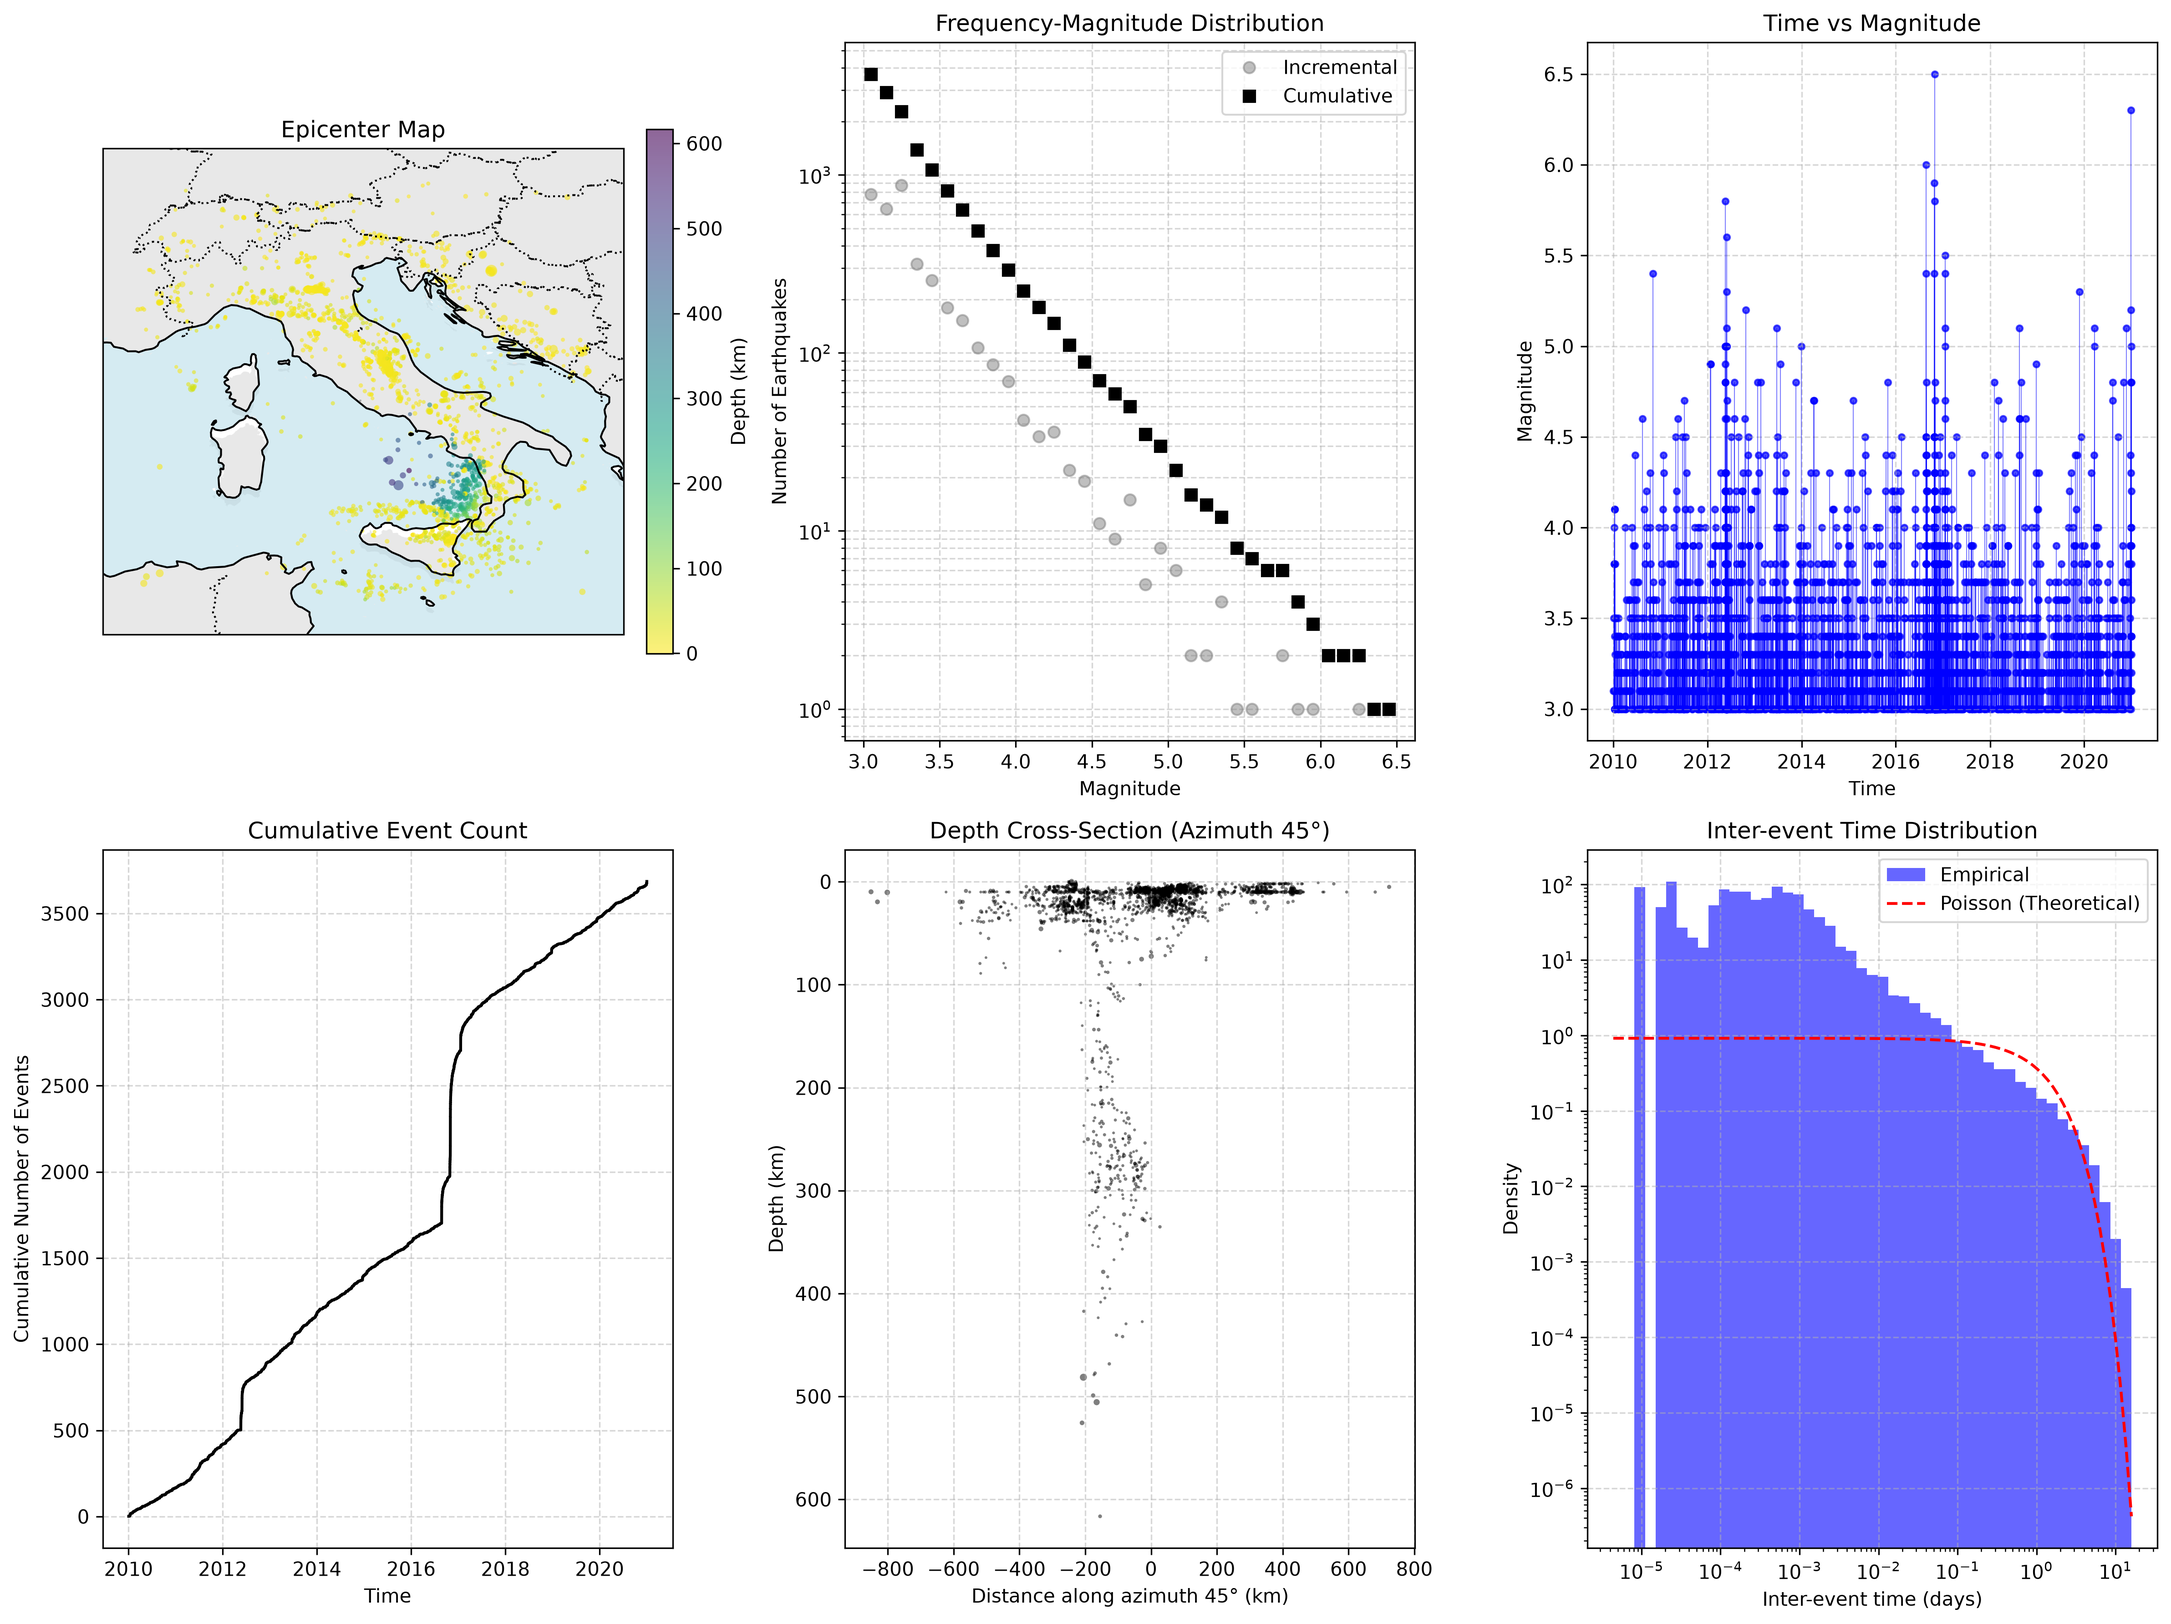
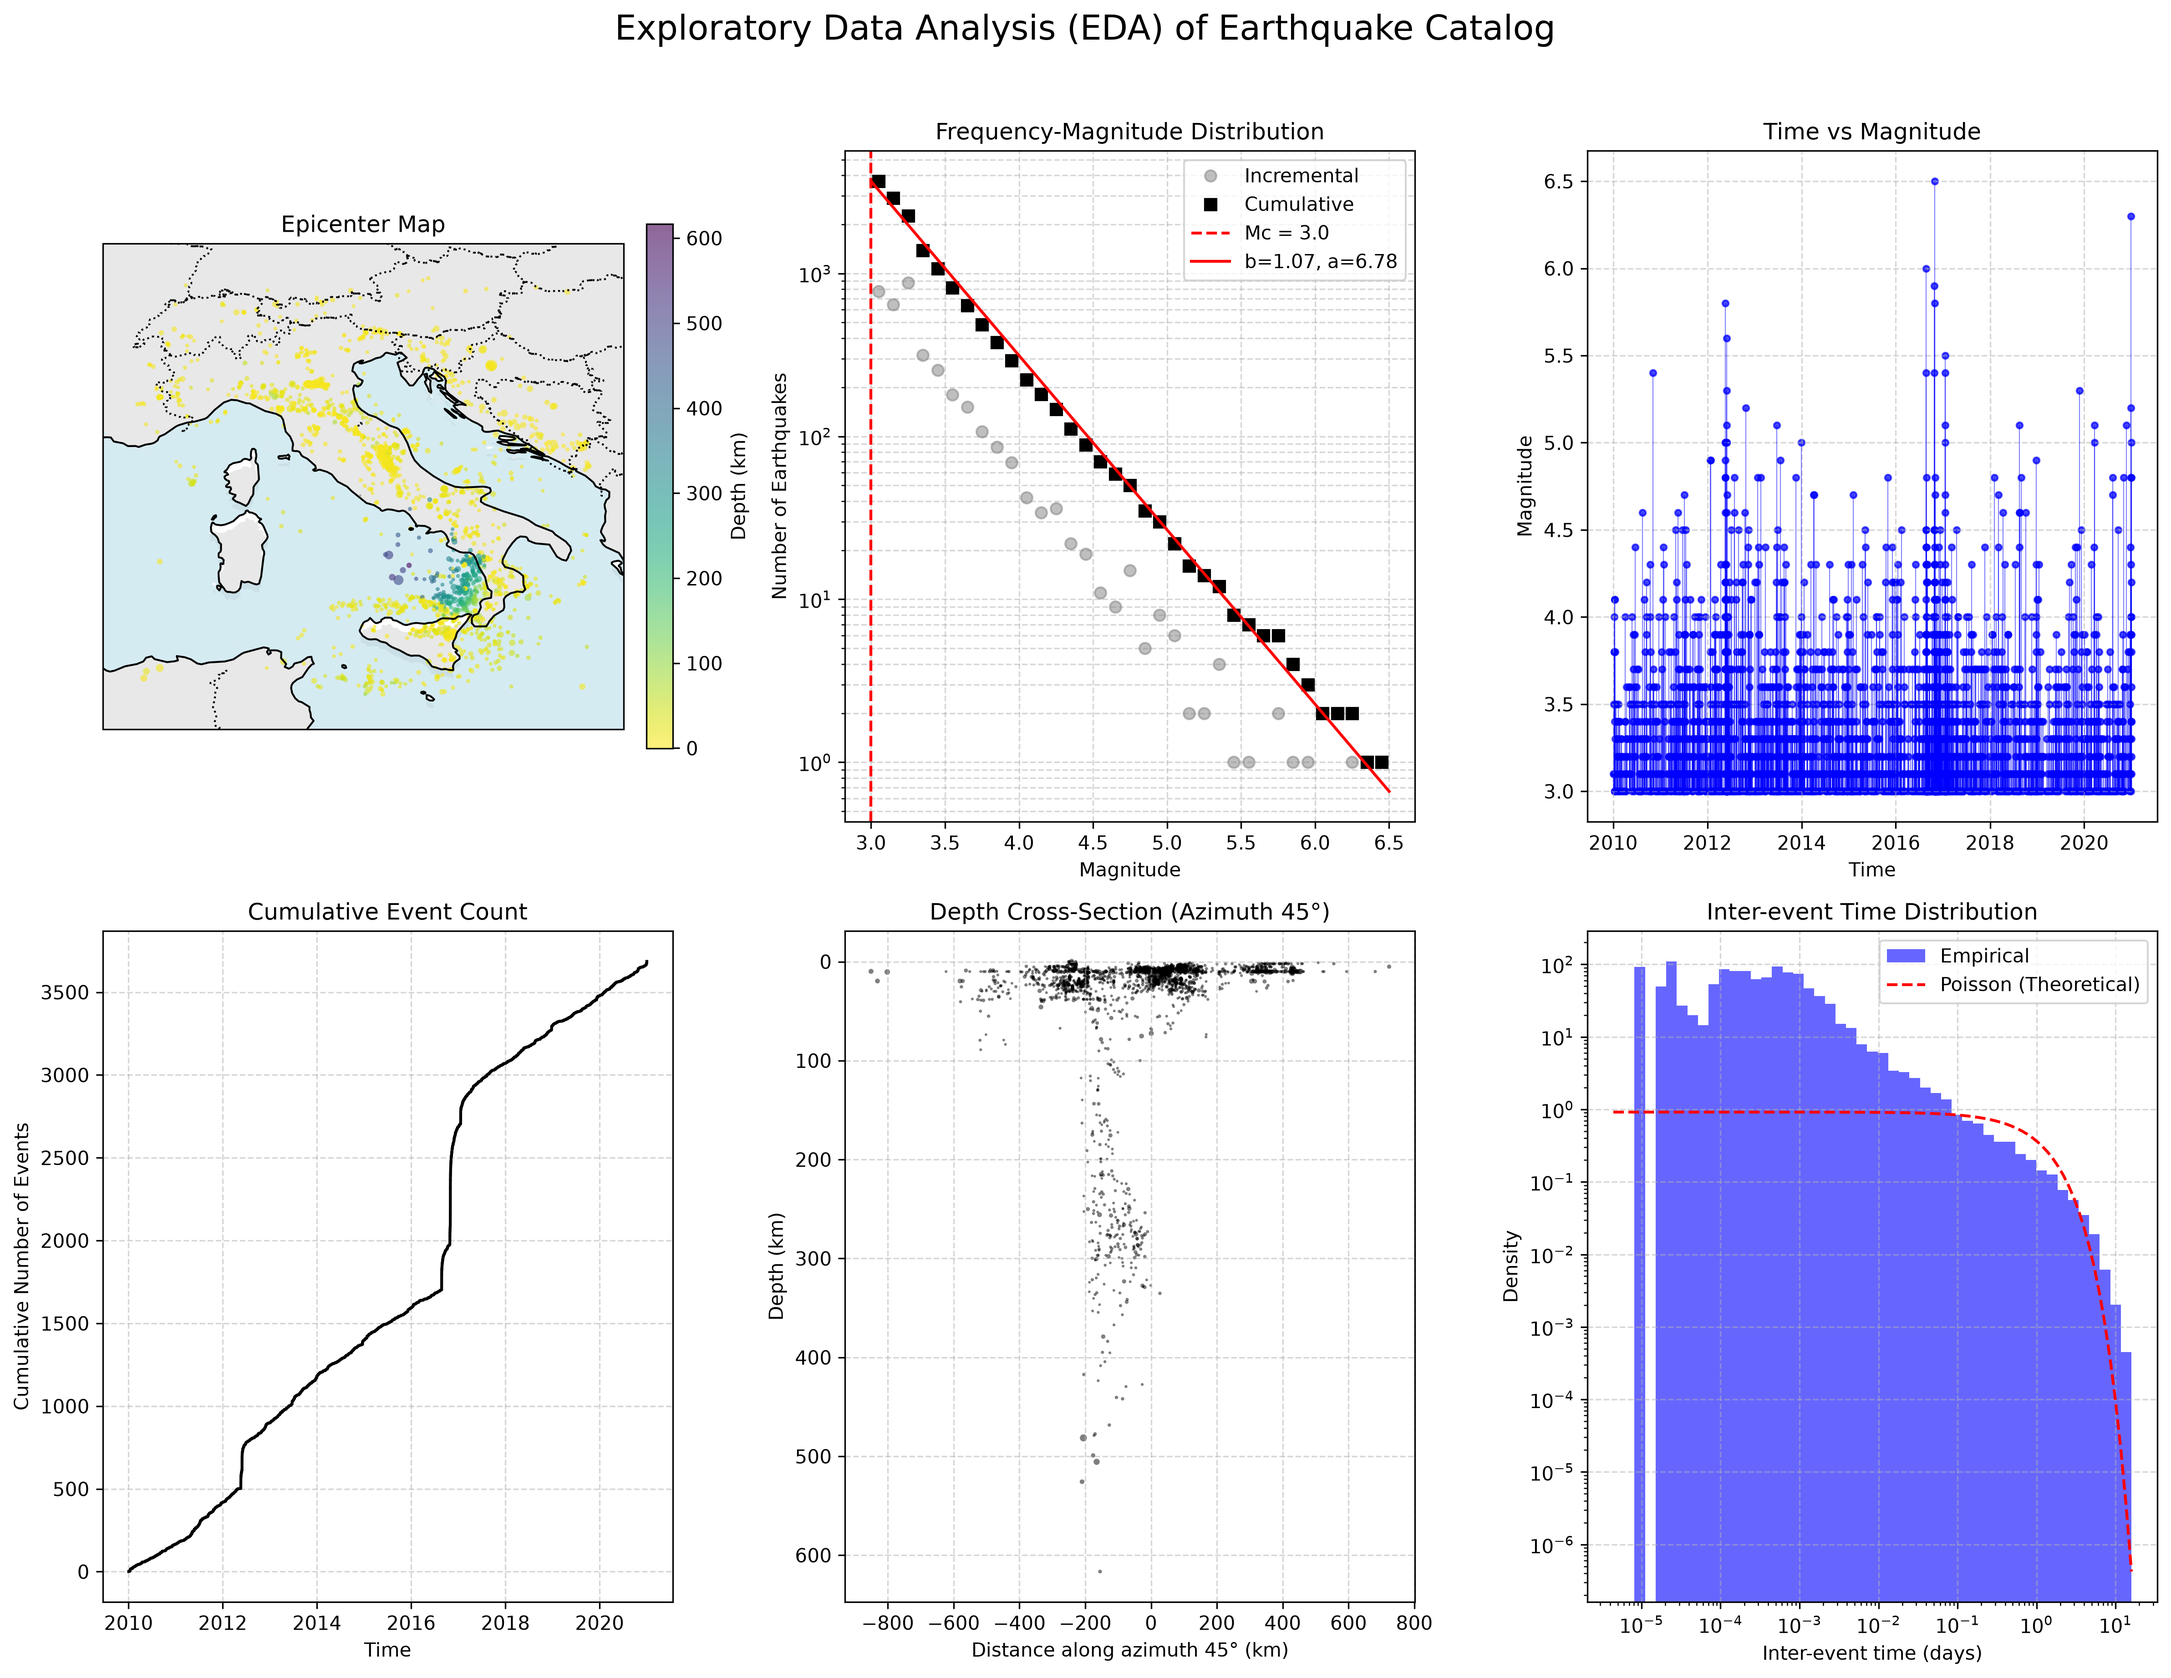
Implement proper spatial grids and MLE b-value annotations

diff --git a/etas/viz/fmd.py b/etas/viz/fmd.py
@@ -6,6 +6,7 @@ def plot_fmd(catalog: Catalog, ax=None, mc=None, b_value=None, a_value=None):
     """
     Plots the cumulative and incremental Frequency-Magnitude Distribution (FMD).
     Cites: theme-3 (EDA).
+    Formulas: Appendix B for Aki-Utsu MLE (b = log10(e) / (mean_m - (Mc - dm/2))) and Gutenberg-Richter log10 N(>=m) = a - bm.
     """
     if ax is None:
         fig, ax = plt.subplots(figsize=(8, 6))
@@ -35,6 +36,16 @@ def plot_fmd(catalog: Catalog, ax=None, mc=None, b_value=None, a_value=None):
 
     ax.plot(centers[valid], counts[valid], 'o', color='gray', label='Incremental', alpha=0.5)
     ax.plot(centers[valid_cum], cum_counts[valid_cum], 's', color='black', label='Cumulative')
+
+    # Calculate Aki-Utsu MLE if mc is provided but b/a are not
+    if mc is not None and (b_value is None or a_value is None):
+        mags_above = mags[mags >= mc]
+        if len(mags_above) > 0:
+            mean_mag = np.mean(mags_above)
+            # Appendix B formula: b = log10(e) / (mean_m - (Mc - dm/2))
+            # using dm = 0.1
+            b_value = np.log10(np.e) / (mean_mag - (mc - 0.05))
+            a_value = np.log10(len(mags_above)) + b_value * mc
 
     # Plot fitted line if provided
     if b_value is not None and a_value is not None and mc is not None:

diff --git a/etas/viz/interevent.py b/etas/viz/interevent.py
@@ -5,7 +5,7 @@ from etas.catalog.model import Catalog
 def plot_interevent_time(catalog: Catalog, ax=None):
     """
     Histogram of inter-event times vs theoretical Poisson.
-    Cites: theme-3 (EDA).
+    Cites: theme-3 (EDA); 01 Ogata 1988 (diagnostic plots motivation).
     """
     if ax is None:
         fig, ax = plt.subplots(figsize=(6, 4))
@@ -47,7 +47,8 @@ def plot_interevent_time(catalog: Catalog, ax=None):
 
 def plot_cumulative_moment(catalog: Catalog, ax=None):
     """
-    Cumulative seismic moment release over time, M0 = 10^(1.5 * Mw + 9.1).
+    Cumulative seismic moment release over time.
+    Cites: theme-3 (EDA). Formula: M0 = 10^(1.5 * Mw + 9.1).
     """
     if ax is None:
         fig, ax = plt.subplots(figsize=(10, 4))

diff --git a/etas/viz/eda.py b/etas/viz/eda.py
@@ -45,6 +45,7 @@ def plot_eda(catalog: Catalog, save_path: str = None):
     ax_inter = plt.subplot(2, 3, 6)
     plot_interevent_time(catalog, ax=ax_inter)
     
+    fig.suptitle('Exploratory Data Analysis (EDA) of Earthquake Catalog', fontsize=18, y=1.02)
     plt.tight_layout()
     
     if save_path:
